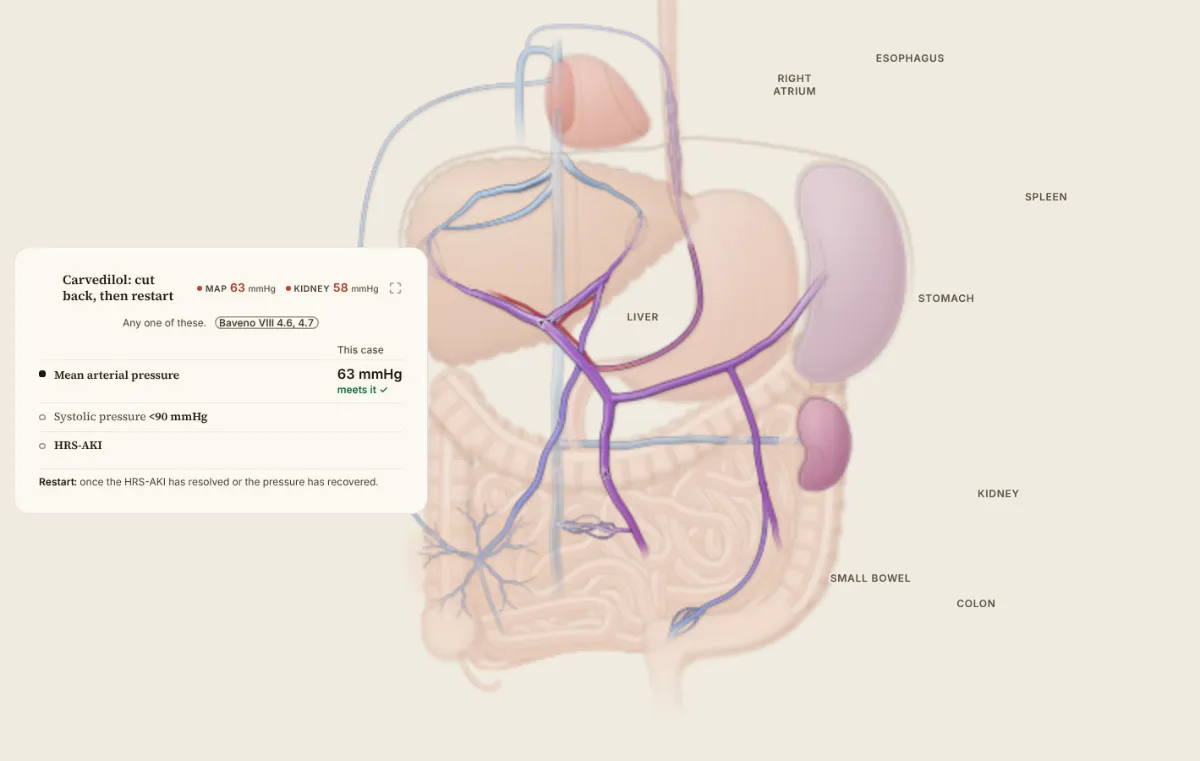
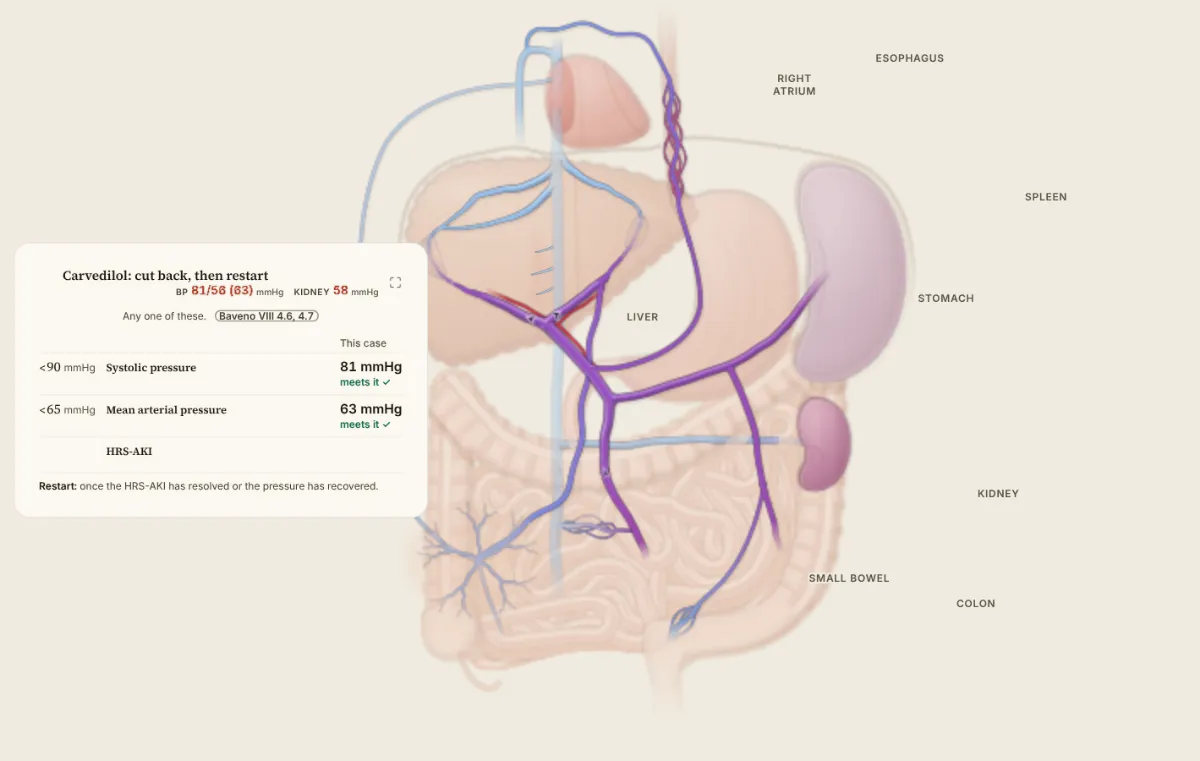
Criteria cards: show the cut-off on every live row (surgery, infection, carvedilol hold, recompensation)
Claude-Session: https://claude.ai/code/session_019srS22PedCwAZKLw712xe9

diff --git a/src/ui/decks/tipping.js b/src/ui/decks/tipping.js
@@ -68,7 +68,7 @@ export const TIPPING = {
     {
       id: 'nocsph', cam: 'fit', data: 'tiles', tiles: ['hvpg', 'map'], key: ['hvpg'],
       tool: { kind: 'criteria', title: 'Infection and cirrhosis', short: 'Infection', ticks: false, lead: 'It depends on the portal pressure.', rule: 'Baveno VIII 3.10, 3.11',
-        rows: [['**With CSPH**: infection can precipitate decompensation or ACLF', 'hvpg', '>=', 10], '**Without CSPH**: the effect of infection on the course is unclear'],
+        rows: [{ text: '**With CSPH**: infection can precipitate decompensation or ACLF', key: 'hvpg', op: '>=', value: 10, cut: '≥10 mmHg' }, '**Without CSPH**: the effect of infection on the course is unclear'],
         verdict: 'He has CSPH, so an infection can tip him over.' },
       kicker: 'Infection', site: 'sin', title: 'Infection is known to tip patients with CSPH, and unclear without it',
       line: 'Baveno VIII ties infection to decompensation in patients with CSPH. In compensated cirrhosis without CSPH, its effect on the course is unclear.',
@@ -78,9 +78,9 @@ export const TIPPING = {
     {
       id: 'surgery', preset: 'csph', params: {}, cam: 'fit', data: 'tiles', tiles: ['hvpg', 'map'], key: ['hvpg'],
       whatIf: { label: 'Cirrhosis', param: 'cirrhosis', min: 0.5, max: 0.8, step: 0.05, ends: ['Milder', 'Worse'] },
-      tool: { kind: 'criteria', title: 'Before abdominal surgery', short: 'Before surgery', lead: 'The higher the HVPG, the higher the risk.', rule: 'Baveno VIII 3.13, 3.20',
-        rows: [['**HVPG** at non-hepatic abdominal surgery', 'hvpg', '>=', 16], '**Major surgery** can precipitate decompensation or ACLF'],
-        verdict: 'A preoperative TIPS may be considered before major surgery (weak).' },
+      tool: { kind: 'criteria', title: 'Before abdominal surgery', short: 'Before surgery', lead: 'The risk after surgery rises with the HVPG.', rule: 'Baveno VIII 3.13, 3.20',
+        rows: [{ text: '**HVPG**: higher short-term mortality after non-hepatic abdominal surgery', key: 'hvpg', op: '>=', value: 16, cut: '≥16 mmHg' }, '**Major surgery** can precipitate decompensation or ACLF'],
+        verdict: 'Before major surgery: a preoperative TIPS may be considered, to lower the risk of decompensation (weak).' },
       kicker: 'Surgery', site: 'sin', title: 'The higher the HVPG, the riskier the surgery',
       line: 'Surgery, especially major surgery, can tip him over. After abdominal surgery, short-term mortality is higher once the HVPG is {>=16 mmHg}.',
       notes: 'Baveno VIII 3.13: surgery, especially major surgery, can precipitate decompensation or ACLF in compensated cirrhosis with CSPH, and the risk rises with the severity of portal hypertension. Table 3 (a statement of an earlier report that remains valid): in candidates for non-hepatic abdominal surgery, an HVPG of 16 mmHg or more goes with a higher short-term mortality after the operation. Baveno VIII 3.20, part b: a preoperative TIPS may be considered before major surgery to reduce the risk of postoperative decompensation (low-quality evidence, weak recommendation). The slider makes the scar worse, so the HVPG climbs toward the 16 mmHg line; it also brings on some ascites, as it does in the patients.',

diff --git a/src/ui/decks/recompensation.js b/src/ui/decks/recompensation.js
@@ -59,7 +59,7 @@ export const RECOMPENSATION = {
     },
     {
       id: 'recomp', tick: 'Off diuretics', params: { diuretics: false }, days: 60, cam: 'fit', data: 'tiles',
-      tool: { kind: 'criteria', title: 'Recompensation', lead: 'All of these, for >6 months.', rule: 'Baveno VIII 7.4', rows: ['**Cause** removed or controlled', ['No **ascites** off diuretics', 'asc', '<', 0.15],
+      tool: { kind: 'criteria', title: 'Recompensation', lead: 'All of these, for >6 months.', rule: 'Baveno VIII 7.4', rows: ['**Cause** removed or controlled', { text: 'No **ascites** off diuretics', key: 'asc', op: '<', value: 0.15, cut: '<0.15 L' },
         'No **encephalopathy** off treatment, and no **rebleed**', 'Back to **Child–Pugh A**, 5 or 6 points'] }, tiles: ['asc', 'salb'], key: ['asc'],
       kicker: 'Recompensation', site: 'sin', title: 'Baveno VIII criteria for recompensation',
       line: 'Off diuretics the ascites stays away and the albumin holds. If that lasts >6 months, with the liver back to Child–Pugh A, this counts as recompensation.',

diff --git a/src/ui/decks/kidney.js b/src/ui/decks/kidney.js
@@ -101,7 +101,7 @@ export const KIDNEY = {
     {
       id: 'hold', action: BLEED, cam: 'fit', data: 'tiles', tiles: TILES, key: ['rpp'], delta: 'carv',
       tool: { kind: 'criteria', title: 'Carvedilol: cut back, then restart', short: 'Carvedilol', lead: 'Any one of these.', rule: 'Baveno VIII 4.6, 4.7',
-        rows: [['**Systolic pressure**', 'sbp', '<', 90], ['**Mean arterial pressure**', 'map', '<', 65], '**HRS-AKI**'],
+        rows: [{ text: '**Systolic pressure**', key: 'sbp', op: '<', value: 90, cut: '<90 mmHg' }, { text: '**Mean arterial pressure**', key: 'map', op: '<', value: 65, cut: '<65 mmHg' }, '**HRS-AKI**'],
         verdict: 'Restart: once the HRS-AKI has resolved or the pressure has recovered.' },
       kicker: 'Carvedilol', site: 'sin', title: 'Cut back carvedilol when the MAP is <65 mmHg',
       line: 'A large bleed takes his blood pressure to {map} and the kidney pressure to {rpp}. Carvedilol is cut back or stopped, then restarted once the pressure recovers.',

diff --git a/CHANGELOG.md b/CHANGELOG.md
@@ -5,6 +5,7 @@
 - **The caudate lobe and its short veins show only on a slide about them again, and the veins taper to a point.** (Mohammad, 11 Nov: not in the normal views; his screenshot showed stubs with rounded caps and no visible lobe.)
   The Budd–Chiari dashed outline and arrows come with the lobe, so they too appear only on those slides. Each vein now grows from a point inside the lobe, and the lobe has a double dome and a faint rim so it reads as a shape. The circuit lane for the caudate vein is unchanged.
 
+- **Criteria cards now show the cut-off each live row is checked against.** On "Before abdominal surgery" the row read "meets it ✓" with no number. It now has the Baveno VIII cut-off, ≥16 mmHg, at its left, a clearer row ("HVPG: higher short-term mortality after non-hepatic abdominal surgery"), the lead "The risk after surgery rises with the HVPG." and the TIPS line "Before major surgery: a preoperative TIPS may be considered, to lower the risk of decompensation (weak)." The same fix on Infection (≥10 mmHg), Carvedilol hold (systolic <90, MAP <65 mmHg) and Recompensation (ascites <0.15 L). Handout figures redrawn for those four.
 - **The caudate lobe now has its own drainage on screen, and Budd–Chiari shows the lobe growing.** (Mohammad's picks: Anatomy 1, Circuit A, enlargement variation B.)
   Anatomy: the lobe and its three short veins are always drawn (they used to appear only on slides that pinned the caudate); a slide about the DIPS still shows the lobe alone while the stent runs through it. Circuit: the caudate vein CAUD is a lane of its own that enters the IVC from the north, crossing the TIPS and DIPS lanes once each. As the lobe grows (the CAUD flow rising to twice, then four times, the healthy value) a dashed outline of the normal lobe stays behind and two arrows point out of it. The dashed line carries no label, and no text label was added.
   The lane runs at y 269, not the 264 of the mock: the lane rule needs 23 units from the TIPS lane. It steps 3 units at the station so the tube joint has no fin, and its last corner is square so the lane rule does not read it as running along the DIPS diagonal. `tests/caudate-drainage.test.js` holds these.
